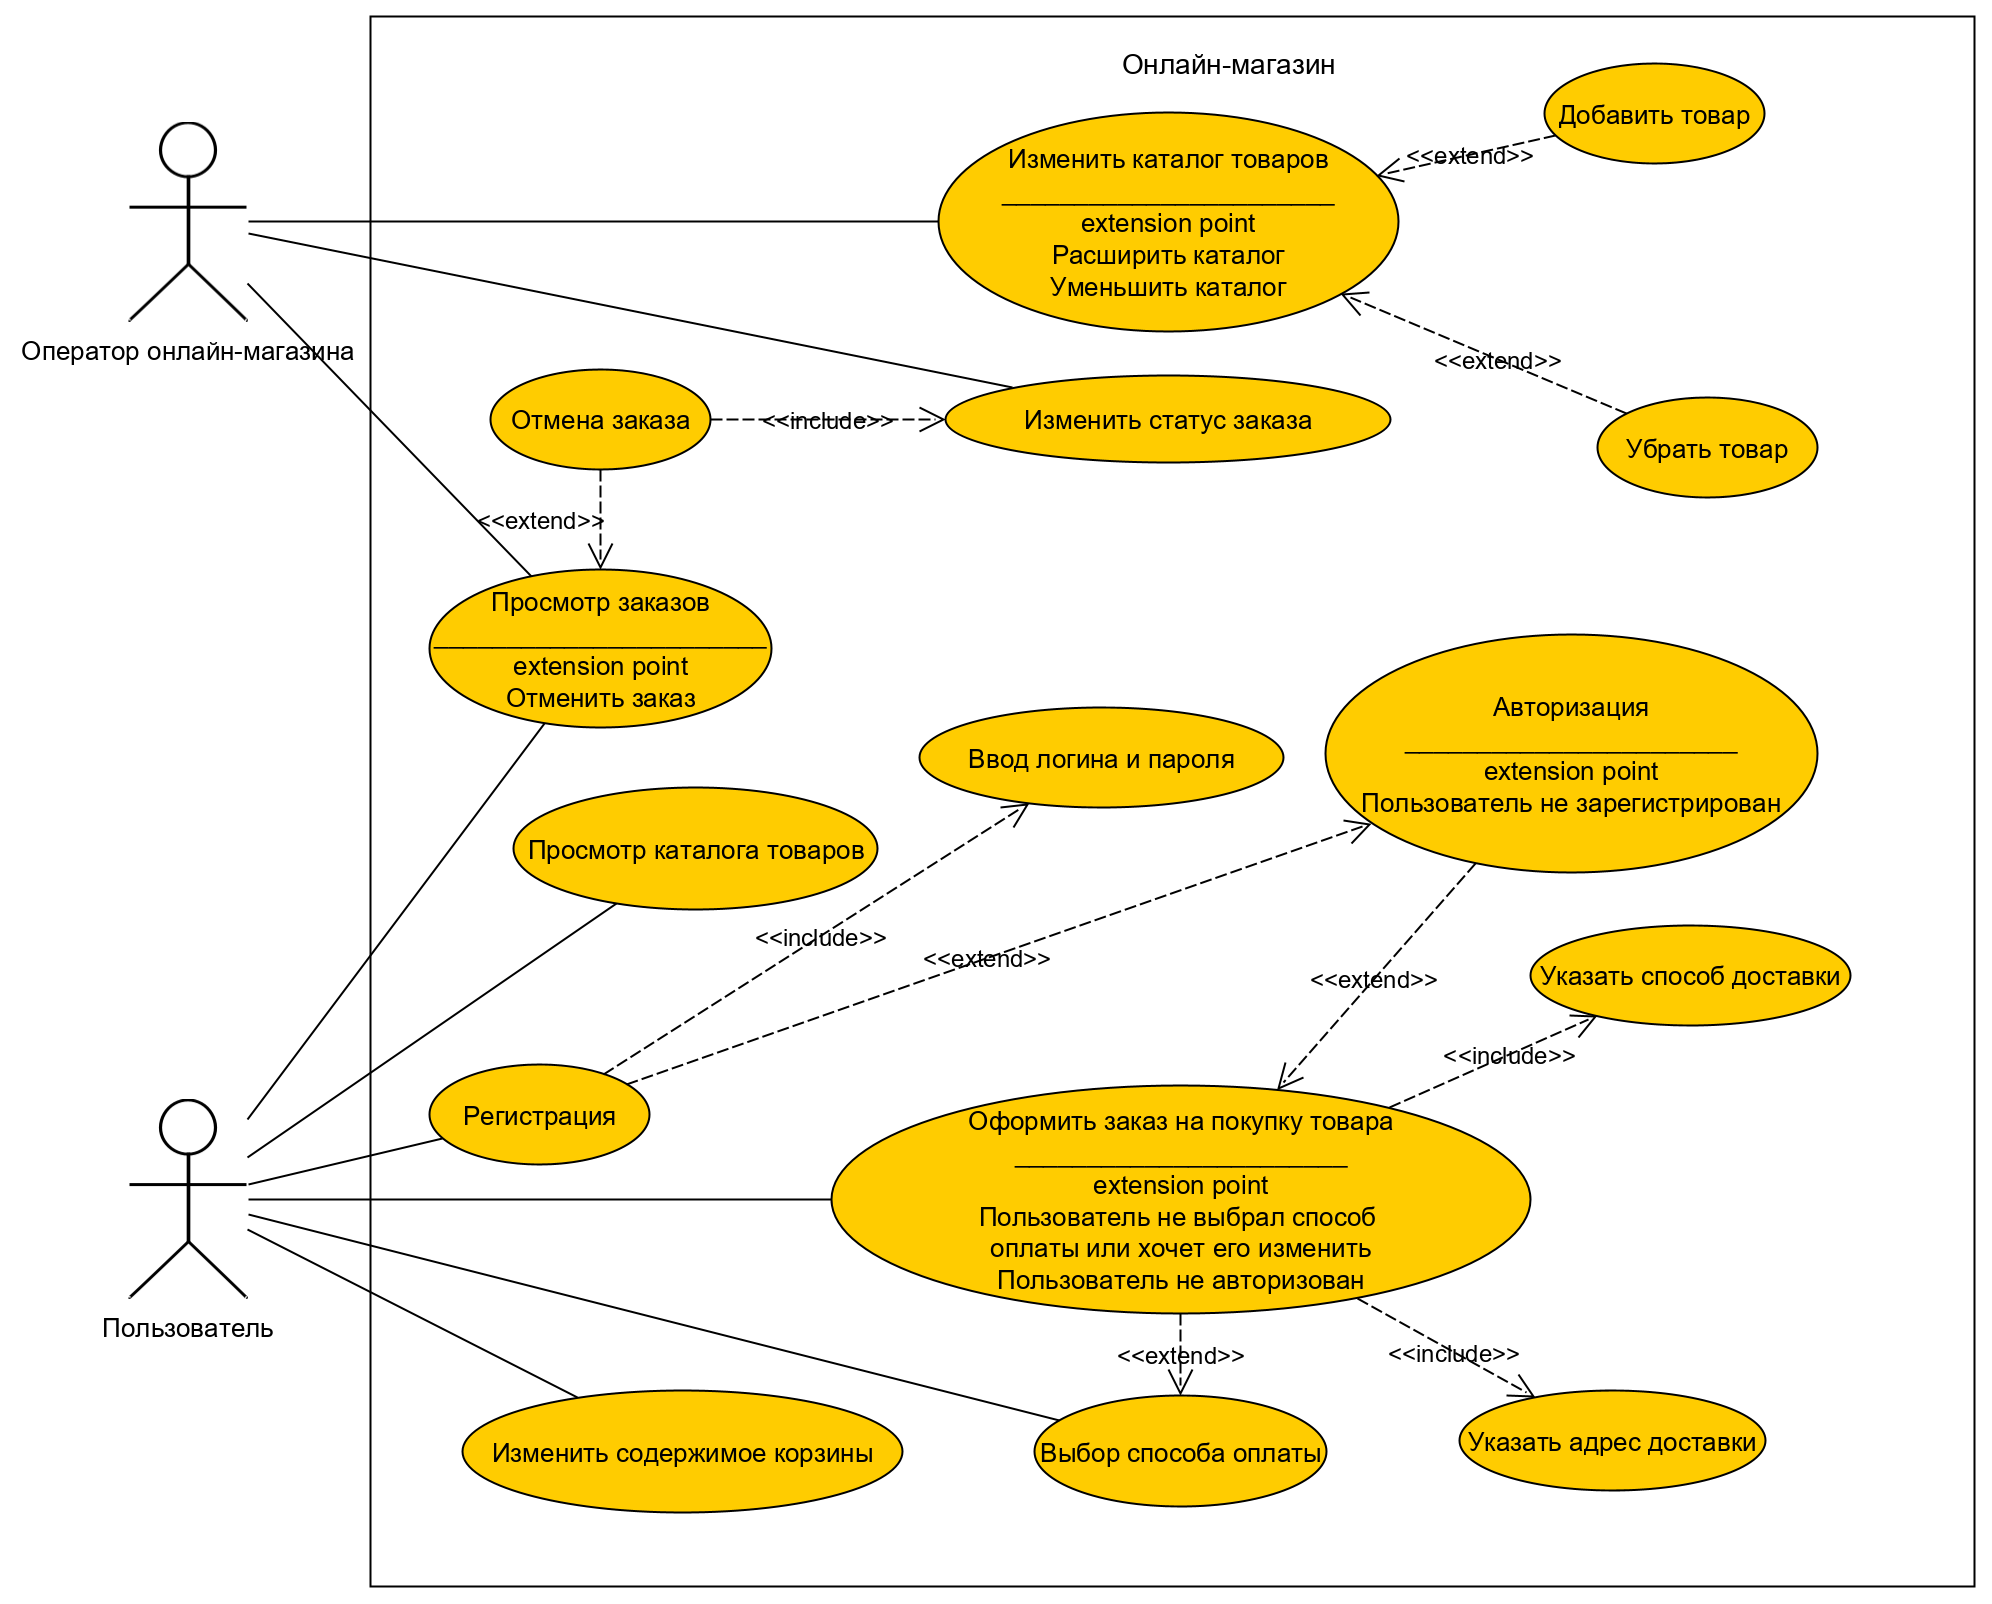
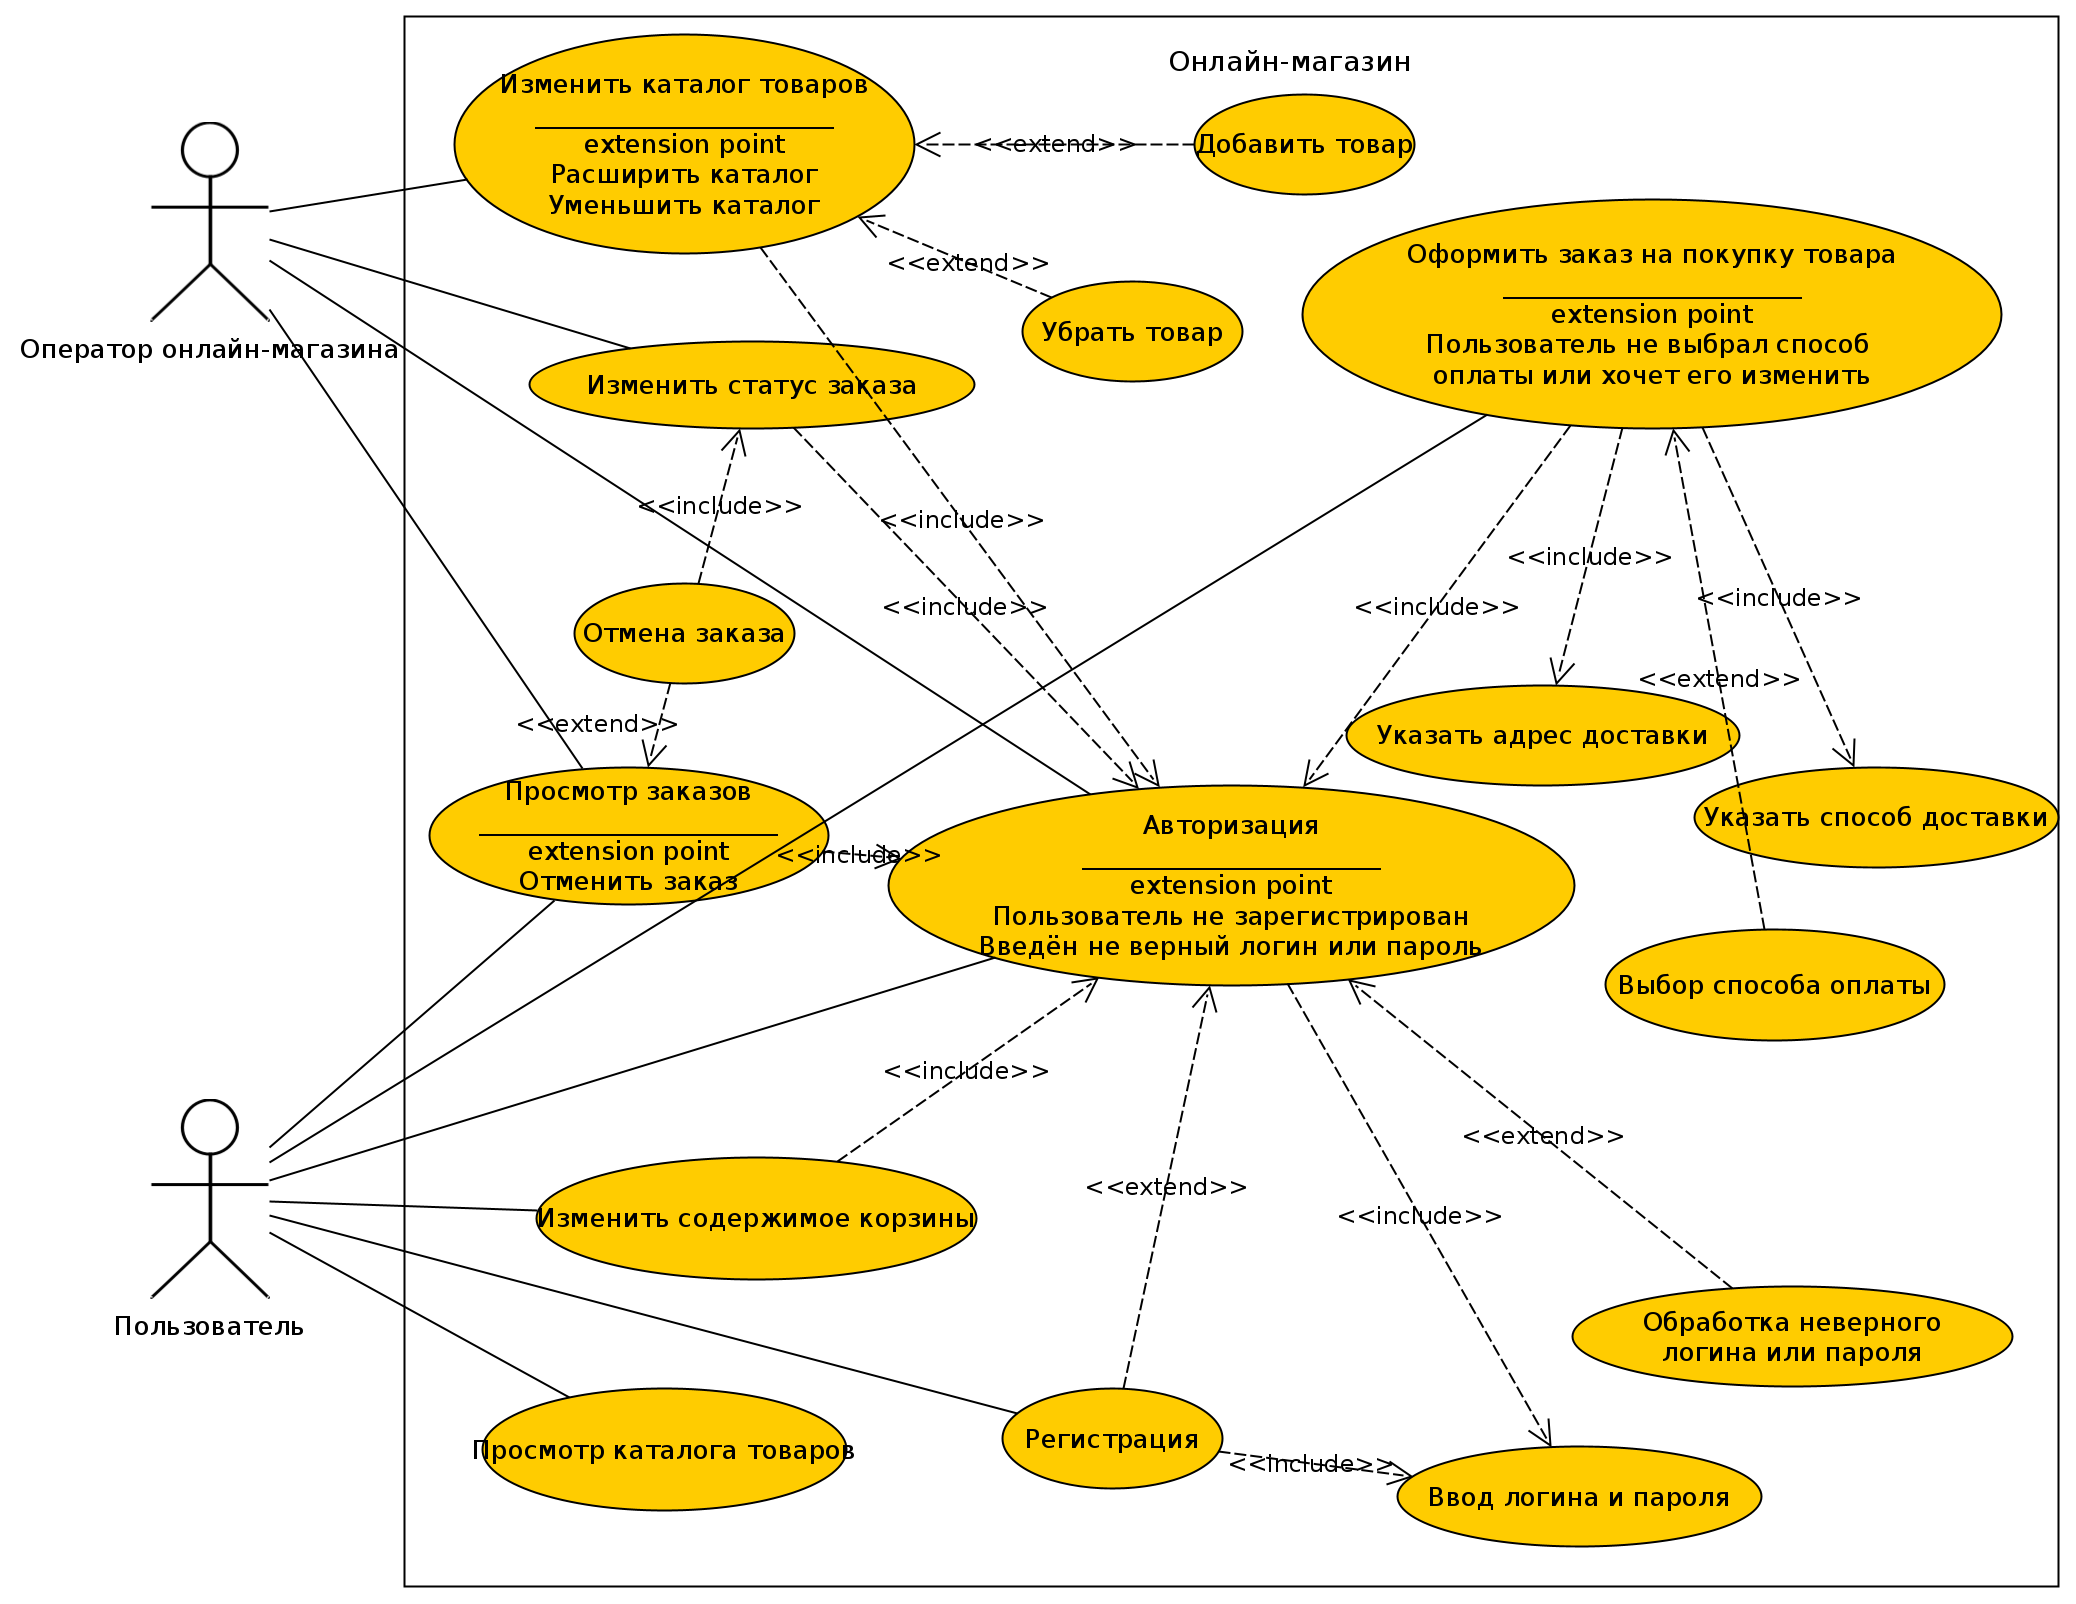
c

diff --git a/1-Basics/Lab3/Спецификация.md b/1-Basics/Lab3/Спецификация.md
@@ -16,7 +16,7 @@
    
    При корректности введённых пользователем данных, заказ успешно оформляется и добавляется в базу данных онлайн-магазина. Далее заказ становится доступным для просмотра пользователю, т.е. он может посмотреть указанные им при оформлении заказа данные, квитанцию об оплате или промониторить, где сейчас находится заказанный(ые) им товар/товары.
 
-5. Альтернативный поток: Если пользователь при оформлении заказа не авторизован, система просит его авторизоваться.
+5. Альтернативный поток: Если пользователь при оформлении заказа не авторизован, система просит его авторизоваться. Если он не указал способ оплаты, система просит выбрать способ оплаты.
 
 6. Постусловия: После оформления заказа система возвращает пользователя на главную страницу онлайн-магазина.
 
